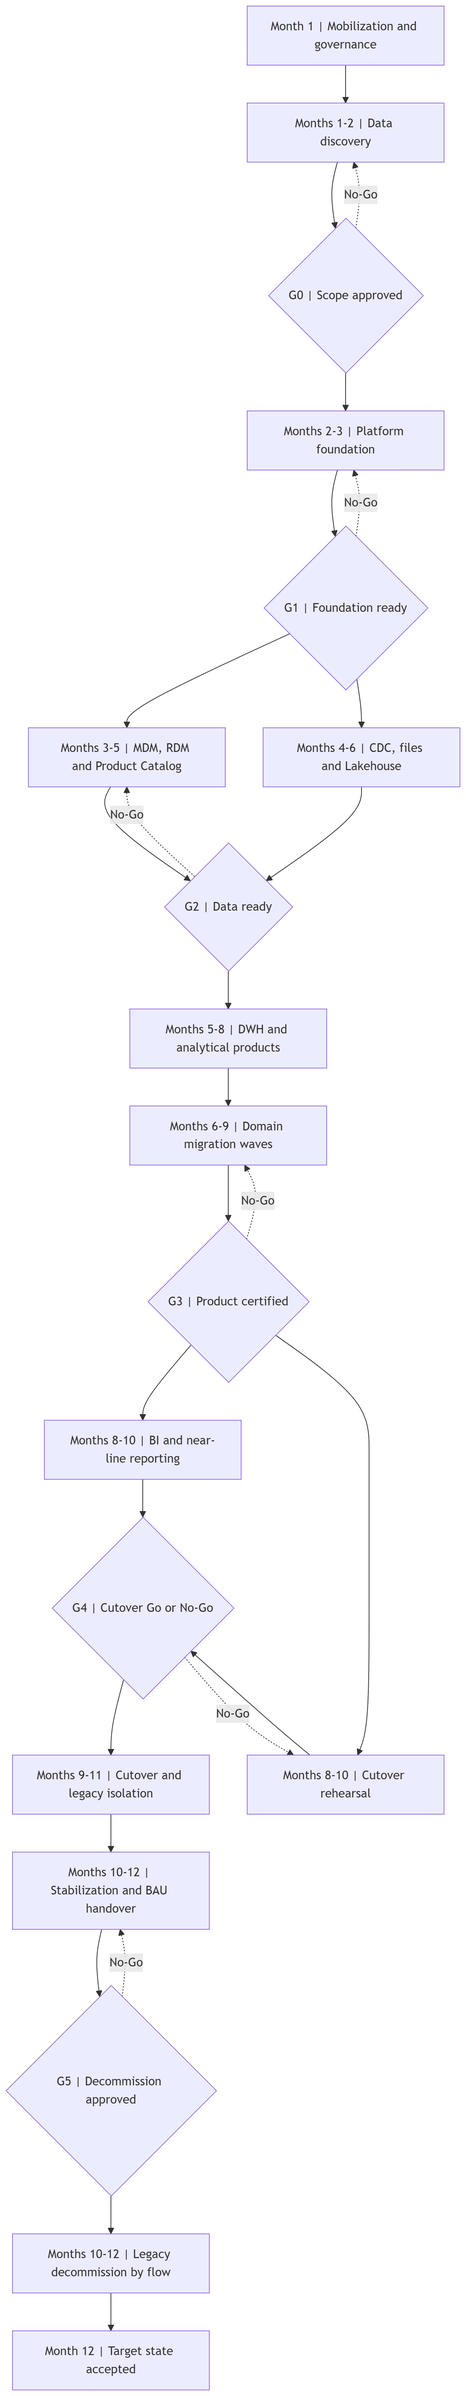
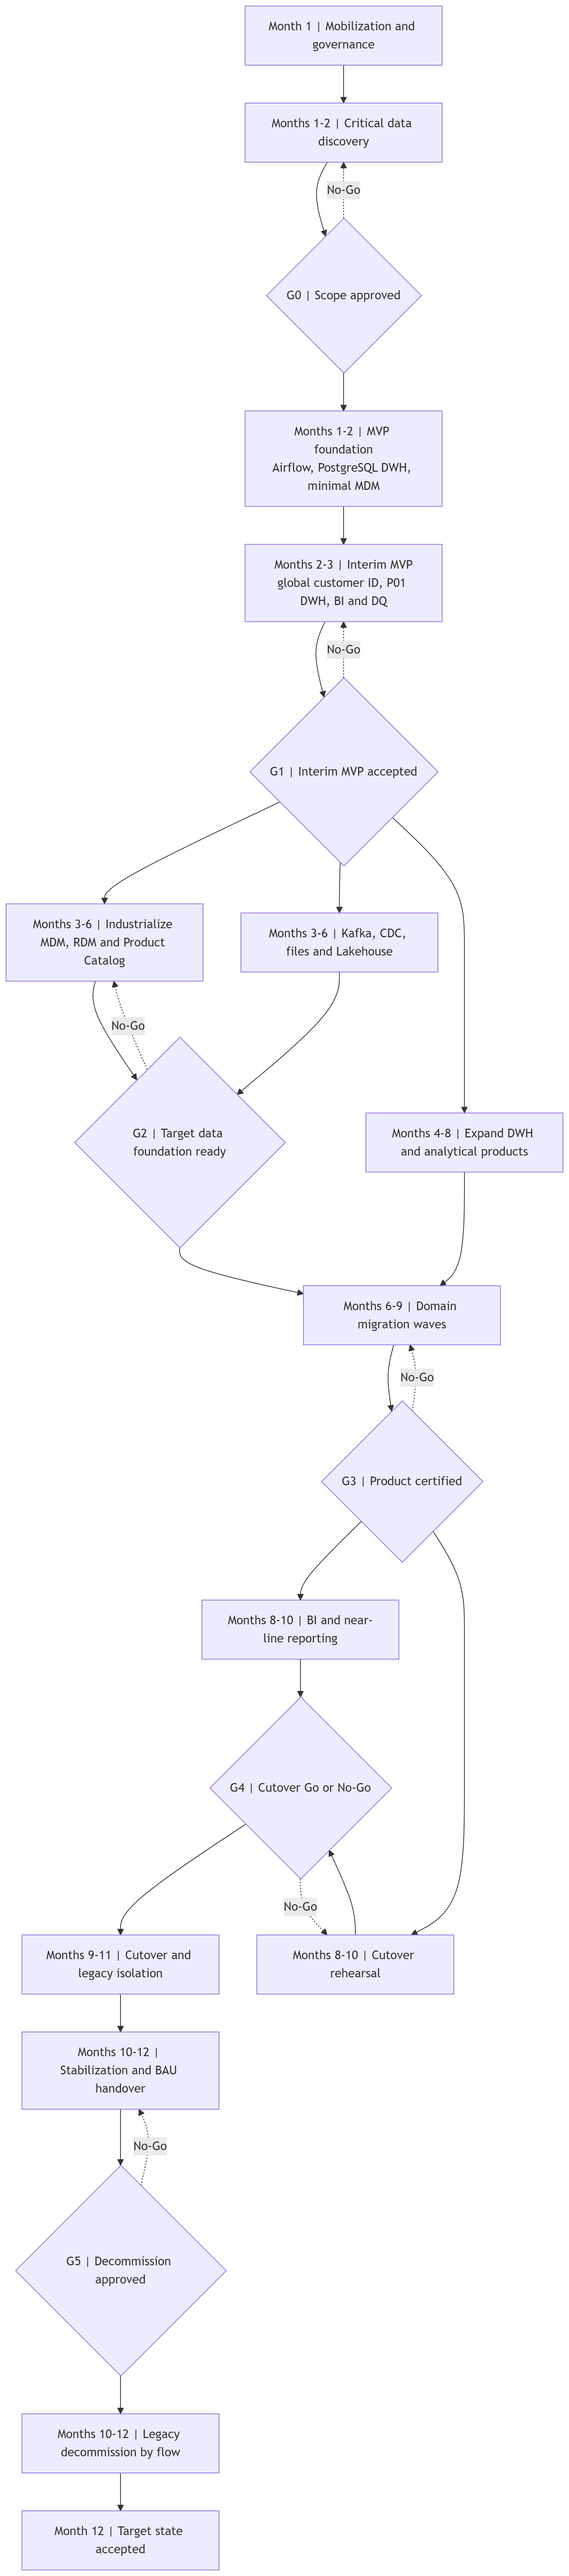
finalaize

diff --git a/Task4/migration-plan.md b/Task4/migration-plan.md
@@ -25,17 +25,17 @@
 | № | Период | Этап | Основные работы | Зависимости | Exit criteria | Результат | Accountable |
 |---|---|---|---|---|---|---|---|
 | 1 | Месяц 1 | Mobilization и governance | • Migration Board<br><br>• RACI<br><br>• Change control<br><br>• Data Owner и Steward<br><br>• Шаблоны evidence<br><br>• Общие определения SLA, RPO и RTO | Утверждённый scope объединения | • Назначены владельцы всех critical domains<br><br>• Утверждены decision rights<br><br>• Создан журнал рисков и зависимостей | Управляемая программа миграции | Executive Sponsor и Chief Data Officer |
-| 2 | Месяцы 1–2 | Data discovery | • Реестр систем, таблиц, файлов и потоков<br><br>• Consumer registry<br><br>• Профилирование данных<br><br>• Поиск PII и PCI<br><br>• История объёмов и SLA<br><br>• Legal hold | Владельцы доступны для подтверждения | • 100% critical flows имеют owner<br><br>• Для legacy assets известны consumers<br><br>• Задокументированы business keys и retention | Baseline AS-IS и migration backlog | Enterprise Data Architect |
-| 3 | Месяцы 2–3 | Platform foundation | • Среды dev/test/prod<br><br>• IAM и secrets<br><br>• Kafka и Schema Registry<br><br>• Airflow pools<br><br>• Object Storage и Iceberg Catalog<br><br>• DataHub<br><br>• Monitoring | Security architecture и capacity estimate | • HA smoke tests пройдены<br><br>• Backup/restore проверен<br><br>• Сквозной synthetic flow виден в lineage<br><br>• Доступ выдаётся по RBAC/ABAC | Готовая платформенная основа | Platform Owner |
-| 4 | Месяцы 3–5 | Master data foundation | • RDM cross-mapping<br><br>• Product Catalog<br><br>• MDM canonical model<br><br>• Match/merge и survivorship<br><br>• Steward workflow<br><br>• Initial customer load | Discovery и platform foundation | • Critical codes имеют canonical mapping<br><br>• MDM quality thresholds утверждены<br><br>• Undo merge протестирован<br><br>• Customer 360 shadow доступен | Канонические идентификаторы и справочники | Customer Data Owner и Reference Data Owner |
-| 5 | Месяцы 4–6 | Ingestion и Lakehouse | • CDC Core/Cards/Loans<br><br>• Managed file ingestion<br><br>• Raw, standardized, curated<br><br>• Dedup и quarantine<br><br>• Table maintenance<br><br>• Replay playbook | Platform foundation и source access | • Initial load и delta не имеют разрыва<br><br>• Record count сверён<br><br>• Каждая quarantine record имеет Data Steward и Producer Owner<br><br>• Aging и replay SLA наблюдаемы<br><br>• Replay выполнен на production-like объёме<br><br>• Compaction укладывается в окно | Полная управляемая история | Data Platform Owner за механизм.<br><br>Domain Data Owners за данные |
-| 6 | Месяцы 5–8 | DWH и analytical products | • Conformed dimensions<br><br>• `fact_transactions`<br><br>• SCD<br><br>• Publication Gate<br><br>• Snapshot manifest<br><br>• Customer 360 и портфельные products | Curated data и master identifiers | • Финансовая сверка пройдена<br><br>• Point-in-time воспроизводим<br><br>• BI нагрузочный тест успешен<br><br>• P01 exit criteria выполнены по первой волне | Сертифицированная аналитика | Analytics Platform Owner и Finance Data Owner |
+| 2 | Месяцы 1–2 | Data discovery и critical scope | • Реестр критичных систем, таблиц, файлов и потоков<br><br>• Consumer registry для витрин первого релиза<br><br>• Профилирование клиента, счёта, продукта и операции<br><br>• Поиск PII и PCI<br><br>• Business keys, контрольные суммы и BIAN-маппинг<br><br>• Расширенный discovery остальных доменов продолжается после месяца 3 | Владельцы доступны для подтверждения | • 100% потоков промежуточного MVP имеют owner<br><br>• Для источников MVP известны consumers<br><br>• Зафиксированы business keys, baseline качества и правила retention | Baseline AS-IS для промежуточного MVP и backlog полного обследования | Enterprise Data Architect |
+| 3 | Месяцы 1–2 | Foundation промежуточного MVP | • Среды dev/test/prod<br><br>• IAM, secrets и monitoring<br><br>• Airflow для P01<br><br>• PostgreSQL DWH со stage/certified schemas<br><br>• Минимальный MDM Customer Hub<br><br>• Управляемый batch/инкрементальный Integration Layer<br><br>• Минимальный DataHub | Security architecture и capacity estimate MVP | • Backup/restore проверен<br><br>• Сквозной synthetic flow source → MDM/DWH → BI виден в lineage<br><br>• Доступ выдаётся по RBAC/ABAC<br><br>• Повторный batch идемпотентен | Готовая основа для трёхмесячного результата | Platform Owner |
+| 4 | Месяцы 2–3 | Промежуточный MVP: единый ID и отчётность | • Initial customer load<br><br>• Match/merge, source links и глобальный `customer_id`<br><br>• Critical RDM cross-mapping и Product Catalog mapping<br><br>• P01 incremental batch из FU/RB CRM, Core, Cards и Loans<br><br>• Витрины клиентов, счетов, продуктов и операций<br><br>• DQ checks, quarantine, BIAN mapping и migration backlog | Critical discovery и MVP foundation | • Нет потерянных source records<br><br>• False merge ниже утверждённого порога<br><br>• Critical codes имеют mapping<br><br>• Record count и финансовые суммы сверены<br><br>• BI-витрины опубликованы из certified batch<br><br>• Владельцы и lineage зарегистрированы | К концу месяца 3 доступны единый клиентский ID, временные потоки и единая управленческая отчётность | Customer Data Owner, Finance Data Owner и Analytics Platform Owner |
+| 5 | Месяцы 3–6 | Industrialization MDM, integration и Lakehouse | • Расширение MDM-модели и Steward workflow<br><br>• Полноценные RDM и Product Catalog<br><br>• Kafka и Schema Registry<br><br>• CDC Core/Cards/Loans<br><br>• Managed file ingestion<br><br>• Object Storage, Iceberg raw/standardized/curated<br><br>• Table maintenance и replay playbook | Принятый промежуточный MVP и source access | • Initial load и delta не имеют разрыва<br><br>• Undo merge протестирован<br><br>• Каждая quarantine record имеет Data Steward и Producer Owner<br><br>• Replay выполнен на production-like объёме<br><br>• Compaction укладывается в окно | Промежуточные компоненты усилены до целевого эксплуатационного уровня | Data Platform Owner и Domain Data Owners |
+| 6 | Месяцы 4–8 | Расширение DWH и analytical products | • Перевод P01-потоков на curated → DWH по доменам<br><br>• Conformed dimensions<br><br>• `fact_transactions` и портфельные факты<br><br>• SCD<br><br>• Publication Gate<br><br>• Snapshot manifest<br><br>• Customer 360 и портфельные products | Работающий P01, curated data и master identifiers | • Финансовая сверка пройдена<br><br>• Point-in-time воспроизводим<br><br>• BI нагрузочный тест успешен<br><br>• P01 exit criteria выполнены по первой целевой волне | MVP-отчётность развивается в целевую сертифицированную аналитику без перерыва сервиса | Analytics Platform Owner и Finance Data Owner |
 | 7 | Месяцы 6–9 | Доменные migration waves | • Волна Customer<br><br>• Accounts & Balances<br><br>• Payments & Transactions<br><br>• Cards Portfolio<br><br>• Loan Portfolio<br><br>• Documents и history | MDM, RDM, ingestion и quality gates | • Каждый product имеет contract и SLO<br><br>• Dual run пройден<br><br>• Consumer подтвердил switch<br><br>• Есть tested fallback | Домены переключены независимо | Domain Data Owners |
 | 8 | Месяцы 8–10 | BI и near-line reporting | • Перенос отчётов по приоритету<br><br>• Согласование метрик<br><br>• Semantic layer<br><br>• Пятиминутные Provisional-витрины<br><br>• Обучение пользователей | Certified DWH и product contracts | • Два отчётных периода совпали<br><br>• Пятиминутный поток укладывается в freshness SLO<br><br>• Certified и Provisional явно разделены | Единые отчёты и оперативные витрины | BI Product Owner |
 | 9 | Месяцы 9–11 | Cutover и legacy isolation | • Customer MDM cutover<br><br>• Переключение data routes<br><br>• Read-only legacy<br><br>• Consumer monitoring<br><br>• Архивирование конфигурации | Успешный rehearsal и Go/No-Go | • Post-cutover controls зелёные<br><br>• Нет необработанной delta<br><br>• Rollback window закрыт решением Board | Новые маршруты являются production path | Migration Manager |
 | 10 | Месяцы 10–12 | Decommission и stabilization | • Отключение старых отчётов и migrated routes<br><br>• Архивы и retention<br><br>• Cost optimization<br><br>• DR exercise<br><br>• Передача в BAU | Hypercare завершён и consumers подтверждены | • Нет обращений к retired assets<br><br>• Restore drill пройден<br><br>• Runbooks приняты Operations<br><br>• Residual risks утверждены | Устойчивая эксплуатация целевой платформы | Operations Owner |
 
-Периоды перекрываются только там, где есть независимые команды и формально завершённый входной gate.
+Периоды перекрываются только там, где есть независимые команды и формально завершённый входной gate. Компоненты месяца 3 имеют ограниченный production scope: минимальный MDM обслуживает идентичность клиента, P01 — четыре обязательные управленческие витрины, а интеграция использует управляемые batch/инкрементальные поставки. Этапы 5–6 не создают эти возможности заново, а повышают их до целевого уровня: добавляют CDC, Kafka, Lakehouse, полные data products и расширенный governance.
 
 ## Обязательный validation gate
 
@@ -59,8 +59,8 @@
 | Gate | Момент | Решение | Обязательное evidence |
 |---|---|---|---|
 | G0 Scope Approved | Конец месяца 1 | Запуск discovery и foundation | • Scope<br><br>• RACI<br><br>• Funding<br><br>• Initial risk register |
-| G1 Foundation Ready | Конец месяца 3 | Разрешить production ingestion | • Security approval<br><br>• HA test<br><br>• Backup/restore<br><br>• Monitoring |
-| G2 Data Ready | Конец месяца 5 | Разрешить domain dual run | • Source-to-target mapping<br><br>• Source baseline<br><br>• Initial/delta reconciliation<br><br>• Quality rules и thresholds<br><br>• Quarantine ownership |
+| G1 Interim MVP Accepted | Конец месяца 3 | Принять промежуточный результат и продолжить industrialization | • Security approval<br><br>• MDM reconciliation и source links<br><br>• P01 financial reconciliation<br><br>• Certified BI-витрины<br><br>• Critical BIAN/RDM mapping<br><br>• Backup/restore и monitoring |
+| G2 Target Data Foundation Ready | Конец месяца 5 | Разрешить domain dual run на целевых потоках | • Source-to-target mapping<br><br>• Source baseline<br><br>• Initial/delta reconciliation<br><br>• CDC/Kafka contracts<br><br>• Quality rules и thresholds<br><br>• Quarantine ownership |
 | G3 Product Certified | Месяцы 6–9 по волнам | Переключить consumers | • Validation manifest<br><br>• Contract<br><br>• Lineage<br><br>• SLO<br><br>• Parallel-run report<br><br>• Business sign-off |
 | G4 Cutover Go/No-Go | Месяцы 9–11 | Начать критичное переключение | • Rehearsal<br><br>• Rollback test<br><br>• On-call roster<br><br>• Business approval |
 | G5 Decommission Approved | Месяцы 10–12 | Удалить старый production path | • Zero-access evidence<br><br>• Archive manifest<br><br>• Legal approval<br><br>• Operations acceptance |

diff --git a/Task4/tech-roadmap.md b/Task4/tech-roadmap.md
@@ -51,37 +51,41 @@
 
 ## Дорожная карта по периодам
 
-### Месяцы 0–3: Foundation
+### Месяцы 0–3: промежуточный MVP
 
 Внедрить:
 
 - IAM, secrets и encryption baseline.
-- Kafka и Schema Registry.
-- API Gateway.
-- Object Storage и Iceberg Catalog.
-- Airflow с отдельными pools.
-- DataHub.
+- минимальный MDM Customer Hub: глобальный `customer_id`, source links, match/merge и Steward queue.
+- critical RDM cross-mapping и Product Catalog mapping.
+- управляемый Integration Layer для batch и инкрементальных поставок.
+- Airflow и PostgreSQL DWH для P01.
+- stage/certified schemas и минимальные витрины клиентов, счетов, продуктов и операций.
+- минимальный DataHub: owners, critical datasets, качество и lineage source-to-report.
 - Observability и audit.
 
 Проверить:
 
-- synthetic source-to-report flow.
+- full load плюс delta клиента без потери source records.
+- false merge / false non-match и обратимость ошибочного merge.
+- source-to-report flow из FU/RB в certified BI.
+- record count, финансовые суммы, остатки и orphan records.
 - backup/restore.
-- Kafka replay.
-- Iceberg commit и time travel.
-- schema compatibility rejection.
+- идемпотентный повтор P01 batch.
 - field-level masking.
 
-Результат: G1 разрешает production ingestion.
+Результат: G1 принимает обязательный промежуточный результат — единый клиентский идентификатор, временные потоки, DQ-контроль и единую управленческую отчётность. Scope ограничен критичными сущностями; это production MVP, а не полный целевой ландшафт.
 
-### Месяцы 4–6: Master data и ingestion
+### Месяцы 3–6: Industrialization master data, integration и Lakehouse
 
 Внедрить:
 
-- MDM Customer Hub.
-- RDM и Product Catalog.
+- расширенную MDM-модель, survivorship и промышленный Steward workflow.
+- полноценные RDM и Product Catalog вместо critical mapping MVP.
+- Kafka, Schema Registry и API Gateway.
 - CDC connectors.
 - managed file ingestion.
+- Object Storage и Iceberg Catalog.
 - raw, standardized и curated.
 - Data Quality и quarantine.
 - Iceberg table maintenance.
@@ -90,17 +94,19 @@
 
 - initial load плюс delta без gap.
 - MDM split/undo merge.
+- Kafka replay и schema compatibility rejection.
+- Iceberg commit и time travel.
 - archive manifest.
 - compaction и replay на production-like объёме.
 - source-to-curated lineage.
 
-Результат: G2 разрешает dual run доменов.
+Результат: G2 разрешает dual run доменов на целевых CDC/event-потоках. P01 продолжает обслуживать BI, пока соответствующий домен не прошёл переход на curated → DWH.
 
-### Месяцы 7–9: Serving и migration waves
+### Месяцы 4–9: расширение serving и migration waves
 
 Внедрить:
 
-- PostgreSQL DWH.
+- расширение PostgreSQL DWH от четырёх MVP-витрин к conformed dimensions, фактам и портфельным marts.
 - Trino resource groups.
 - Publication Gate.
 - data products и contracts.
@@ -113,7 +119,7 @@
 - lineage-as-code для Customer 360 и Payments & Transactions.
 - automated canary routing для Customer MDM.
 
-Результат: G3 разрешает consumer switch по продукту.
+Результат: G3 разрешает consumer switch по продукту; временный P01 отключается только для домена, прошедшего сверку с целевым P09.
 
 ### Месяцы 10–12: Cutover и stabilization
 

diff --git a/Task4/README.md b/Task4/README.md
@@ -6,6 +6,8 @@
 
 Операционные FU/RB CRM, Core Banking, Cards и Loans не заменяются одномоментно. Они сохраняют профильную ответственность и подключаются через API, события и CDC. MDM становится мастером глобальной идентичности клиента, а объединённые Lakehouse и DWH заменяют дублирующие аналитические контуры после проверки потребителей и истории.
 
+К концу месяца 3 вводится ограниченный production MVP: минимальный MDM Customer Hub с глобальным `customer_id` и source links, critical RDM/Product mapping, управляемые batch/инкрементальные потоки, PostgreSQL DWH P01, проверки качества и единые витрины клиентов, счетов, продуктов и операций. В месяцах 3–8 эти уже работающие компоненты расширяются до целевых Kafka/CDC, Lakehouse и полных data products, а не создаются впервые.
+
 ## Состав решения
 
 | Артефакт | Содержание |
